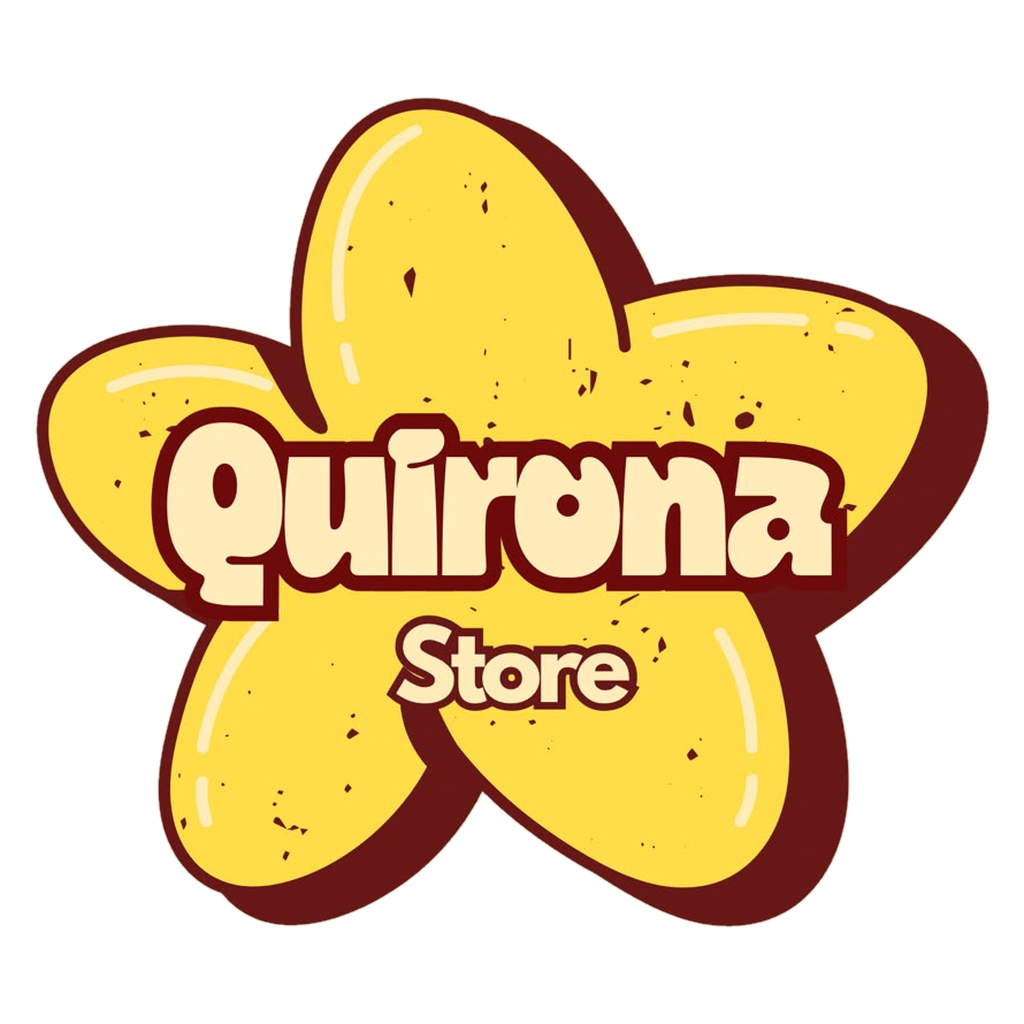
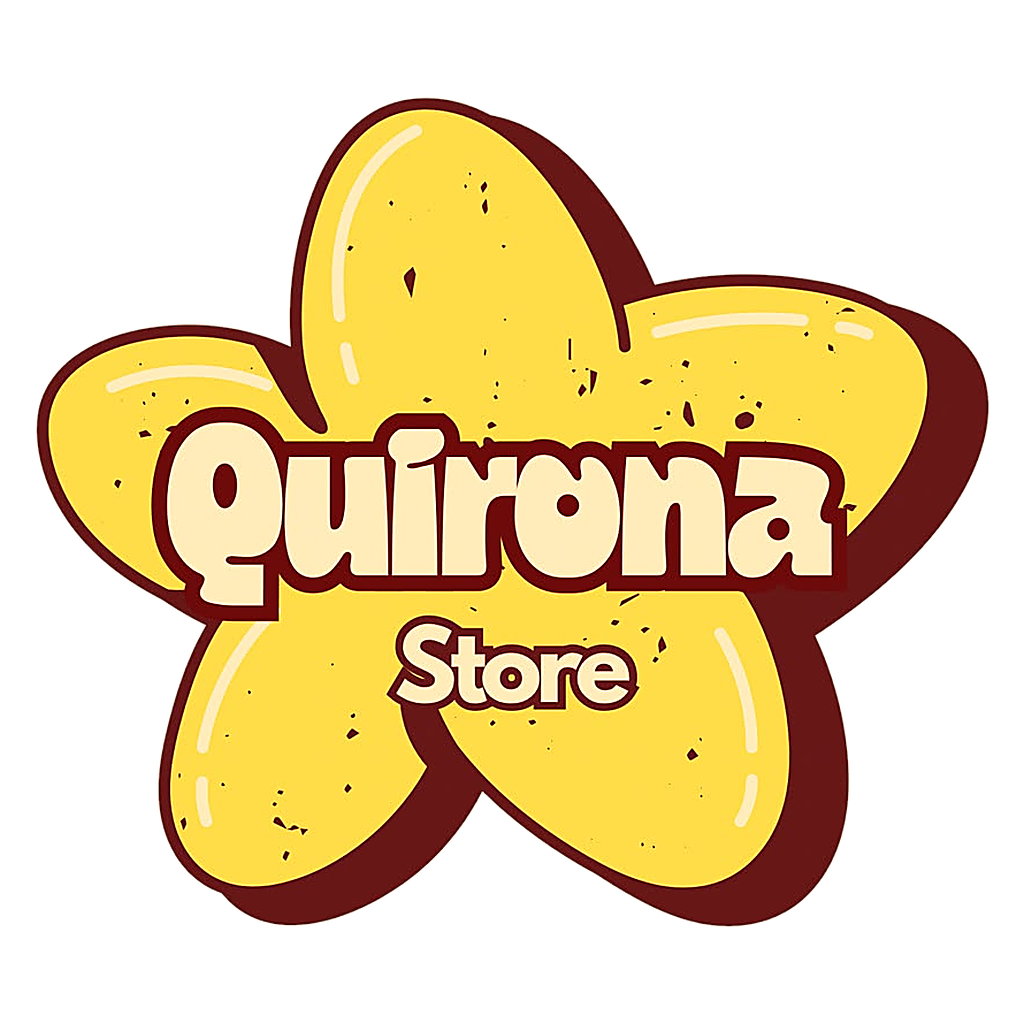
fix(hero): remove specular glare with matte vinyl finish and sharpen texture rendering with LinearFilter

diff --git a/src/components/home/RetroHeroCanvas.tsx b/src/components/home/RetroHeroCanvas.tsx
@@ -45,31 +45,31 @@ export default function RetroHeroCanvas({ className = '' }: RetroHeroCanvasProps
       powerPreference: 'high-performance',
     });
     renderer.setSize(width, height);
-    renderer.setPixelRatio(Math.min(window.devicePixelRatio, 2));
+    renderer.setPixelRatio(Math.min(window.devicePixelRatio, 2.5));
     renderer.toneMapping = THREE.LinearToneMapping;
     renderer.toneMappingExposure = 1.0;
     renderer.shadowMap.enabled = true;
     renderer.shadowMap.type = THREE.PCFSoftShadowMap;
     container.appendChild(renderer.domElement);
 
-    // --- Lighting Setup: Bright Frontal Studio Lights (Zero ceiling shadows, vibrant & radiant) ---
-    // Pure white omnidirectional ambient light for vibrant, even color fidelity matching the logo #FFDD48
-    const ambientLight = new THREE.AmbientLight(0xffffff, 1.2);
+    // --- Studio Lighting: Pure Diffuse & Glare-Free ---
+    // Pure white omnidirectional ambient light (100% glare-free, preserving authentic logo colors and contrast)
+    const ambientLight = new THREE.AmbientLight(0xffffff, 1.15);
     scene.add(ambientLight);
 
-    // Front-facing beauty key light directly at camera eye-level
-    const keyLight = new THREE.DirectionalLight(0xfffaee, 0.65);
-    keyLight.position.set(1.0, 1.0, 6.5);
+    // Soft off-axis key light (defines 3D depth on edges without shining directly into the camera reflection angle)
+    const keyLight = new THREE.DirectionalLight(0xfffaee, 0.28);
+    keyLight.position.set(3.0, 3.5, 3.5);
     scene.add(keyLight);
 
-    // Soft frontal fill light from bottom-left to eliminate all under-shadows
-    const fillLight = new THREE.DirectionalLight(0xffeedd, 0.35);
-    fillLight.position.set(-2.0, -0.5, 5.5);
+    // Subtle fill light from bottom-left
+    const fillLight = new THREE.DirectionalLight(0xffeedd, 0.12);
+    fillLight.position.set(-2.5, -2.0, 2.5);
     scene.add(fillLight);
 
-    // Golden warm back-rim light for a subtle collectible toy halo
-    const rimLight = new THREE.DirectionalLight(0xfff0aa, 0.45);
-    rimLight.position.set(0, 2.0, -4.0);
+    // Soft warm backlight for 3D silhouette separation
+    const rimLight = new THREE.DirectionalLight(0xfff0aa, 0.35);
+    rimLight.position.set(0, 2.0, -3.5);
     scene.add(rimLight);
 
     // --- Interactive Toy Root Group ---
@@ -80,32 +80,37 @@ export default function RetroHeroCanvas({ className = '' }: RetroHeroCanvasProps
     const toyGroup = new THREE.Group();
     rootGroup.add(toyGroup);
 
-    // --- Texture Loading (Official Quirona Mascot Artwork) ---
+    // --- Texture Loading (Razor-Sharp Official Quirona Mascot Artwork) ---
     const textureLoader = new THREE.TextureLoader();
+    const maxAnisotropy = renderer.capabilities.getMaxAnisotropy();
+
+    // Disable mipmaps to prevent downsampling blur; sample full 1024x1024 crisp source
     const mascotTexture = textureLoader.load('/mascot_main_toy.png');
     mascotTexture.colorSpace = THREE.SRGBColorSpace;
-    mascotTexture.minFilter = THREE.LinearMipmapLinearFilter;
+    mascotTexture.generateMipmaps = false;
+    mascotTexture.minFilter = THREE.LinearFilter;
     mascotTexture.magFilter = THREE.LinearFilter;
-    mascotTexture.generateMipmaps = true;
+    mascotTexture.anisotropy = maxAnisotropy;
 
     const backTexture = textureLoader.load('/mascot_back_toy.png');
     backTexture.colorSpace = THREE.SRGBColorSpace;
-    backTexture.minFilter = THREE.LinearMipmapLinearFilter;
+    backTexture.generateMipmaps = false;
+    backTexture.minFilter = THREE.LinearFilter;
     backTexture.magFilter = THREE.LinearFilter;
-    backTexture.generateMipmaps = true;
+    backTexture.anisotropy = maxAnisotropy;
 
     // --- 3D Sculpted Vinyl Layers ---
     // Dimension of the mascot in 3D scene units (scaled to fit comfortably within the circular framing)
     const toySize = 3.85;
     const planeGeom = new THREE.PlaneGeometry(toySize, toySize);
 
-    // 1. Front Vinyl Face Material (with official lettering & warm golden yellow #FFDD48)
+    // 1. Front Vinyl Face Material (Smooth matte vinyl finish — zero blinding white glare, 100% sharp artwork)
     const frontMat = new THREE.MeshStandardMaterial({
       map: mascotTexture,
       transparent: true,
       alphaTest: 0.08,
       depthWrite: true,
-      roughness: 0.28,
+      roughness: 0.88, // Matte finish eliminates harsh specular reflections and haze
       metalness: 0.0,
       side: THREE.FrontSide,
     });
@@ -124,7 +129,7 @@ export default function RetroHeroCanvas({ className = '' }: RetroHeroCanvasProps
       transparent: true,
       alphaTest: 0.08,
       depthWrite: true,
-      roughness: 0.32,
+      roughness: 0.80,
       metalness: 0.0,
       side: THREE.DoubleSide,
     });
@@ -145,7 +150,7 @@ export default function RetroHeroCanvas({ className = '' }: RetroHeroCanvasProps
       transparent: true,
       alphaTest: 0.08,
       depthWrite: true,
-      roughness: 0.30,
+      roughness: 0.85,
       metalness: 0.0,
       side: THREE.BackSide,
     });
